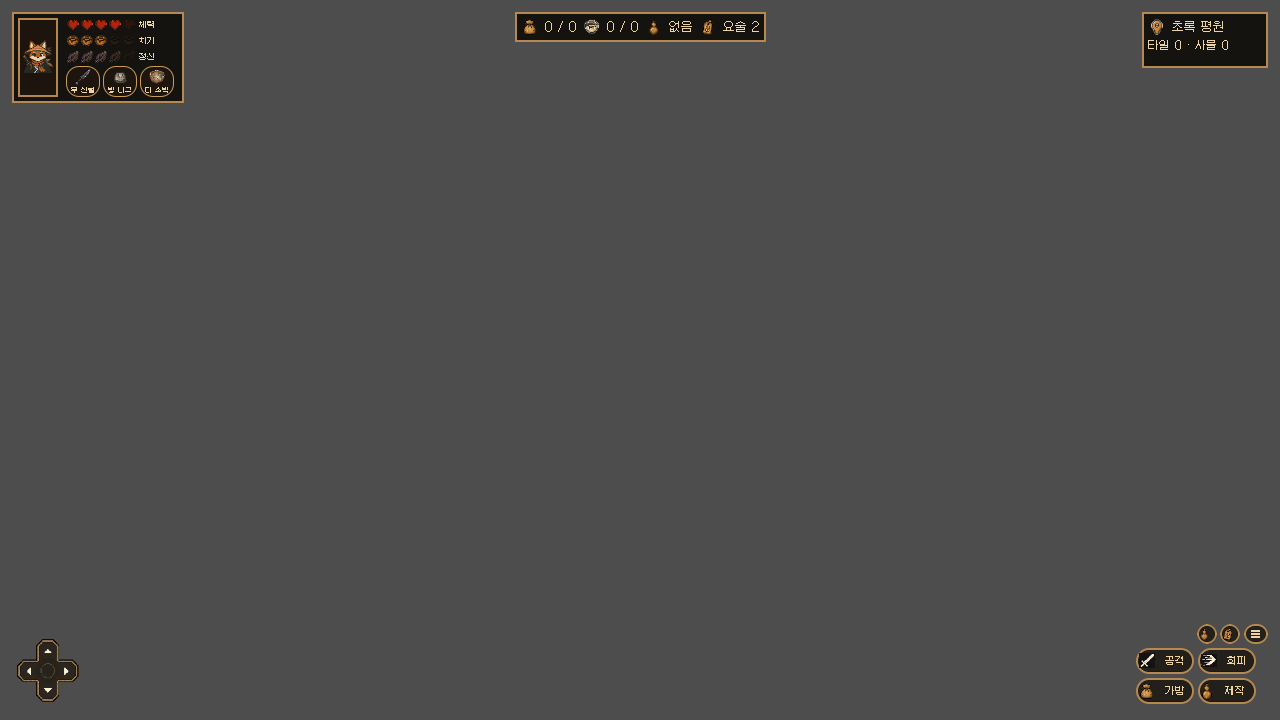
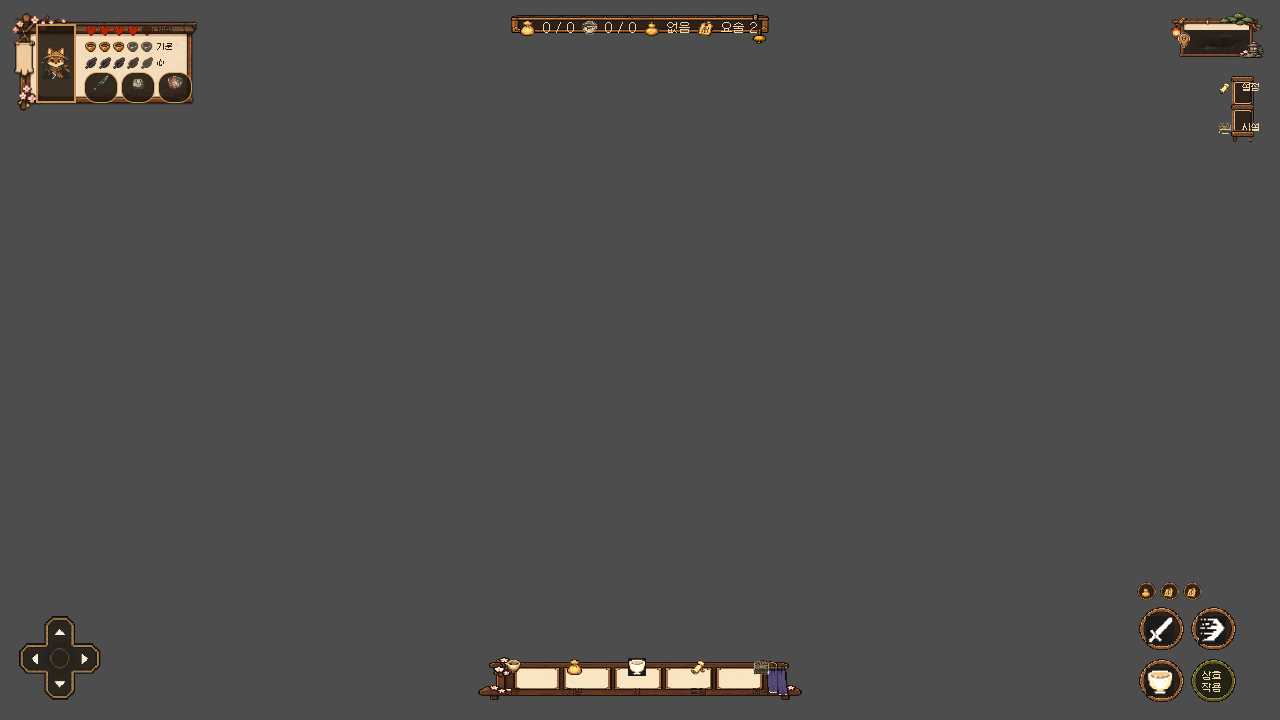
feat(ui): apply generated pixel art gameplay hud

diff --git a/DESIGN.md b/DESIGN.md
@@ -47,7 +47,8 @@
 
 - 색상과 이미지 제작 방향은 `assets/style/art-style-tokens.json`만 정본으로 사용한다.
 - 글꼴은 `Galmuri11`과 nearest filtering을 사용한다.
-- 상시 HUD는 짙은 먹색 바탕과 흙빛 테두리를 유지한다. 일시 메뉴는 한지 바탕, 먹색 글자, 목재색 테두리로 월드와 구분한다.
+- 상시 HUD는 목재 프레임·한지 상태판·둥근 목재 행동 버튼의 생성 PNG를 사용하고, 중앙 월드를 가리지 않도록 가장자리에 둔다. 일시 메뉴는 한지 바탕, 먹색 글자, 목재색 테두리로 월드와 구분한다.
+- 상시 HUD의 상태판·자원판·미니맵·하단 선반·행동 버튼은 `assets/ui/generated/`의 생성 PNG를 직접 사용하며 텍스트와 런타임 아이콘만 코드에서 겹친다.
 - 일시 메뉴의 한지·목재 표면은 `assets/ui/generated/`의 생성 PNG를 9-slice로 직접 사용하며, 코드 색상 박스는 이미지 로드 실패 시 대체재로만 둔다.
 - 가방·도감·제작·지도·다구 화면은 긴 설명보다 큰 픽셀 아이콘, 카드, 짧은 상태 문구를 우선한다.
 - 상세 정보는 화면 전체를 다시 덮지 않고 같은 한지 스타일의 짧은 팝업으로 표시한다.
